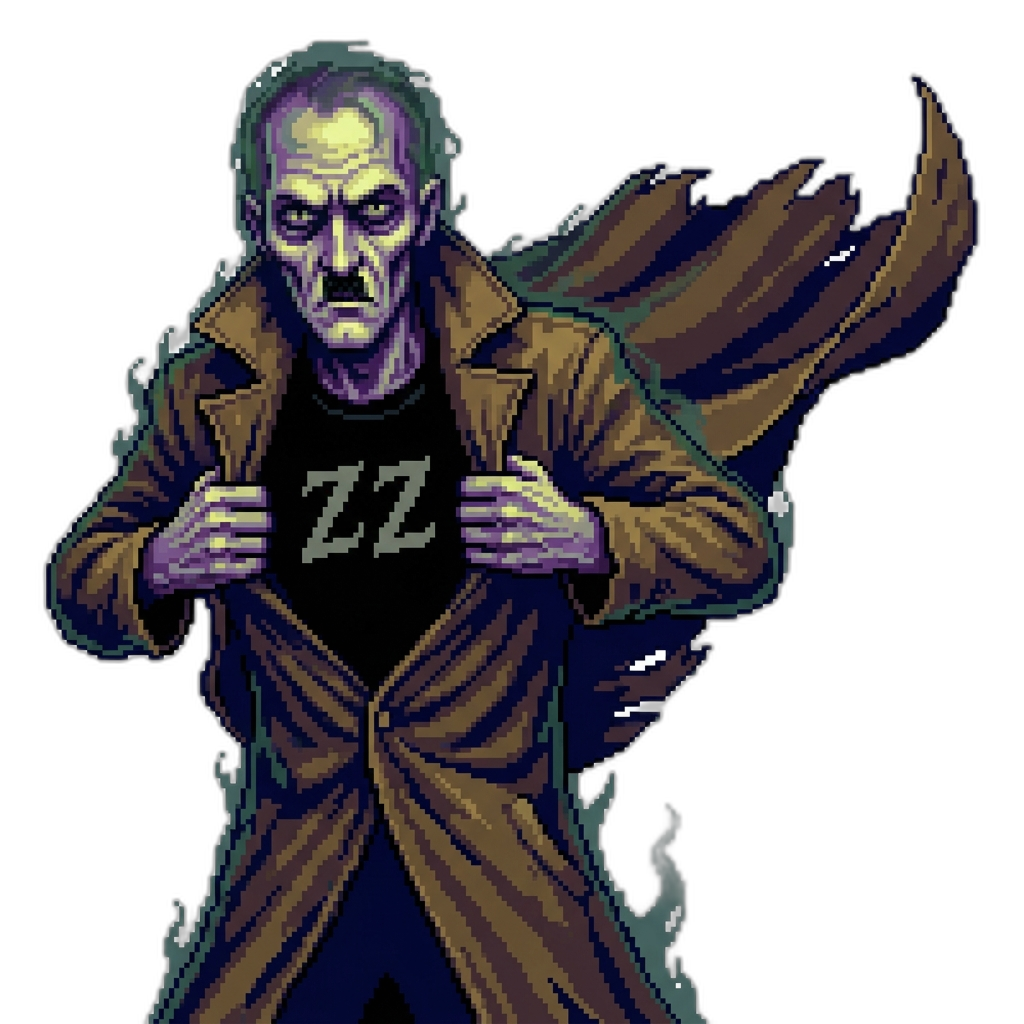
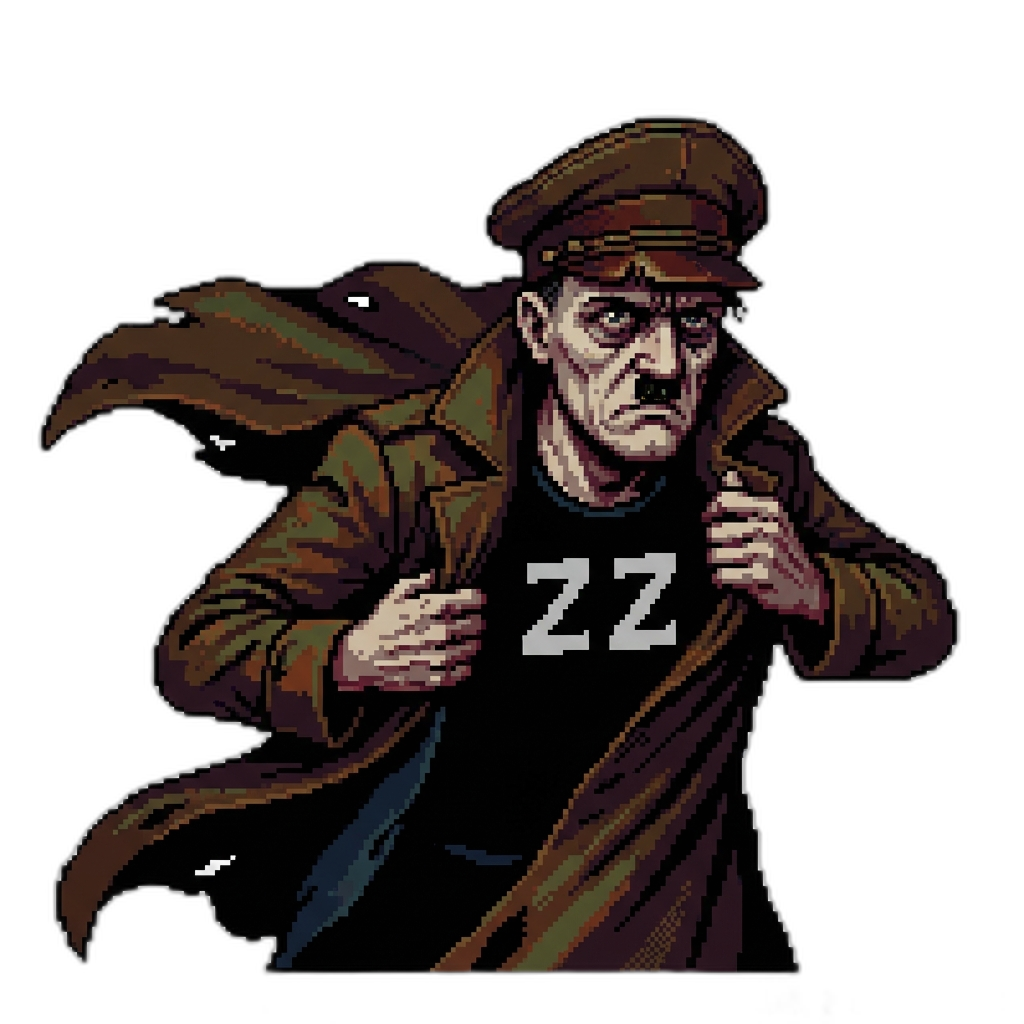
Refine Contamination portrait (V7: Classic military cap + long coat cape + Superman pose)

diff --git a/scripts/apply_rembg.py b/scripts/apply_rembg.py
@@ -24,9 +24,9 @@ def process_with_ai(src_path, dest_path):
     except Exception as e:
         print(f"Error processing {src_path}: {e}")
 
-# Mapping of Contamination/Hitler parody version (V5 - Long Coat Cape) to game assets
+# Mapping of Contamination/Hitler parody (V7 - Classic Cap + Long Coat) to game assets
 BATCH_MAPPING = {
-    r"C:\Users\dacan\.gemini\antigravity\brain\e1ff93e5-feb9-40de-bb1e-b46aafdf7fd1\contamination_spectral_cape_v5_arcade_1774748096178.png": r"c:\Users\dacan\OneDrive\Documenti\My Games\civic-nightmare\assets\mockups\contamination_portrait.png",
+    r"C:\Users\dacan\.gemini\antigravity\brain\e1ff93e5-feb9-40de-bb1e-b46aafdf7fd1\contamination_spectral_hero_v7_arcade_1774748192352.png": r"c:\Users\dacan\OneDrive\Documenti\My Games\civic-nightmare\assets\mockups\contamination_portrait.png",
 }
 
 if __name__ == "__main__":
